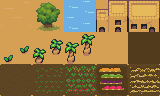
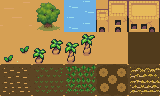
ux improvement

diff --git a/js/GameScene.js b/js/GameScene.js
@@ -2,7 +2,7 @@ class GameScene extends Phaser.Scene {
   constructor() { super({ key: 'GameScene' }); }
 
   preload() {
-    this.load.spritesheet('tiles', 'art/tiles.png?v3', { frameWidth: 32, frameHeight: 32 });
+    this.load.spritesheet('tiles', 'art/tiles.png?v4', { frameWidth: 32, frameHeight: 32 });
   }
 
   create() {
@@ -25,6 +25,8 @@ class GameScene extends Phaser.Scene {
     this.farmLimitAlertShown     = false;
     this.gardenBlinkTimer        = 0;
     this.gardenBlinkOn           = true;
+    this.waterCrisisTimer        = 0;
+    this.waterCrisisTriggered    = false;
 
     // Rain
     this.rain = { state: 'idle', phaseTimer: 0, duration: 0, nextTimer: 0, drops: [], started: false, lightningTimer: 0, lightningDelay: 0 };
@@ -250,7 +252,7 @@ class GameScene extends Phaser.Scene {
       if (!this.farmLimitAlertShown) {
         this.farmLimitAlertShown = true;
         const ui = this.scene.get('UIScene');
-        if (ui) ui.showAlert('The number of farmland depends on the number of people in your community.');
+        if (ui) ui.showAlert('The number of farmland depends on your community size. Build more shelters to welcome more people.');
       }
       return;
     }
@@ -405,10 +407,10 @@ class GameScene extends Phaser.Scene {
     for (const g of this.gardens) {
       if (g.stage === 3 || g.stage === 4) continue; // withered or harvested, waiting for player action
 
-      // Apply blink alpha to stage-2 tiles
+      // Apply blink alpha to stage-2 tiles only in the last 5s before withering
       if (g.stage === 2) {
         const tile = this.biomeLayer.getTileAt(g.x, g.y);
-        if (tile) tile.alpha = this.gardenBlinkOn ? 1 : 0.35;
+        if (tile) tile.alpha = g.timer >= 5 && this.gardenBlinkOn ? 0.35 : 1;
       }
 
       g.timer += dt;
@@ -422,7 +424,7 @@ class GameScene extends Phaser.Scene {
             this.gardenReadyAlertShown = true;
             const ui = this.scene.get('UIScene');
             GameState.current_action = GameState.ACTION_FARM;
-            if (ui) ui.showAlert('Your first garden is ready!\nClick on it to harvest it.');
+            if (ui) ui.showAlert('Your first garden is ready!\nClick quickly to harvest before the produce goes off.');
           }
         }
       } else if (g.stage === 2 && g.timer >= 10) {
@@ -454,6 +456,7 @@ class GameScene extends Phaser.Scene {
       const ui = this.scene.get('UIScene');
       if (ui) ui.showAlert(
         'Now, you can expand your community by building other shelters.\n' +
+        'You can replant in the same place where you harvested.\n' +
         'Pay attention to the damage you cause on the land health and on the water level.'
       );
     }
@@ -636,6 +639,15 @@ class GameScene extends Phaser.Scene {
           }
         }
       }
+    }
+
+    // Water crisis: game over only after 10s with no water tiles
+    if (this.waterCells.length === 0) {
+      this.waterCrisisTimer += dt;
+      if (this.waterCrisisTimer >= 10) this.waterCrisisTriggered = true;
+    } else {
+      this.waterCrisisTimer = 0;
+      this.waterCrisisTriggered = false;
     }
 
     this._updateRain(dt);

diff --git a/js/TitleScene.js b/js/TitleScene.js
@@ -3,7 +3,7 @@ class TitleScene extends Phaser.Scene {
 
   create() {
     const W = GAME_WIDTH, H = GAME_HEIGHT;
-    const cx = W / 2, cy = H / 2;
+    const cx = W / 2, cy = H / 2 - 100;
 
     // Background
     const bg = this.add.graphics();
@@ -23,12 +23,16 @@ class TitleScene extends Phaser.Scene {
 
     // Tagline
     this.add.text(cx, cy + 10, 'Rise your community, regenerate resources', {
-      fontSize: '20px', fontFamily: 'monospace', fill: '#557755',
+      fontSize: '22px', fontFamily: 'monospace', fill: '#557755',
+    }).setOrigin(0.5);
+
+    this.add.text(cx, cy + 120, 'Through human actions, particularly those of the most greedy, the planet has been turned into a vast desert. Years later, communities are trying to establish themselves by managing resources more effectively and respecting planetary boundaries. ', {
+      fontSize: '20px', fontFamily: 'monospace', fill: '#ffffff', wordWrap: { width: 550 },
     }).setOrigin(0.5);
 
     // Play button
-    const btnW = 180, btnH = 52;
-    const btnX = cx - btnW / 2, btnY = cy + 70;
+    const btnW = 320, btnH = 52;
+    const btnX = cx - btnW / 2, btnY = cy + 220;
 
     const btnBg = this.add.graphics();
     btnBg.fillStyle(0x2d6e2d, 1);
@@ -36,7 +40,7 @@ class TitleScene extends Phaser.Scene {
     btnBg.lineStyle(2, 0x55cc55, 1);
     btnBg.strokeRoundedRect(btnX, btnY, btnW, btnH, 6);
 
-    this.add.text(cx, btnY + btnH / 2, 'PLAY', {
+    this.add.text(cx, btnY + btnH / 2, 'CREATE MY COMMUNITY', {
       fontSize: '22px', fontStyle: 'bold', fontFamily: 'monospace', fill: '#ffffff',
     }).setOrigin(0.5);
 
@@ -59,6 +63,7 @@ class TitleScene extends Phaser.Scene {
       btnBg.strokeRoundedRect(btnX, btnY, btnW, btnH, 6);
     });
     zone.on('pointerdown', () => {
+      this.scale.startFullscreen();
       this.scene.start('GameScene');
     });
   }

diff --git a/js/UIScene.js b/js/UIScene.js
@@ -135,8 +135,8 @@ class UIScene extends Phaser.Scene {
   // ── Alert popup ─────────────────────────────────────────────────────────────
 
   _buildAlertPopup() {
-    const W = 480,
-      H = 210;
+    const W = 560,
+      H = 260;
     const px = (GAME_WIDTH - W) / 2;
     const py = (GAME_HEIGHT - H) / 2;
 
@@ -272,8 +272,7 @@ class UIScene extends Phaser.Scene {
 
     // Game Over
     const gameScene = this.scene.get("GameScene");
-    const noWaterTiles =
-      gameScene && gameScene.waterCells && gameScene.waterCells.length === 0;
+    const noWaterTiles = gameScene && gameScene.waterCrisisTriggered;
     if (GameState.land_health === 0 || noWaterTiles) {
       this.gameOver = true;
       this.overlayOpen = true;

diff --git a/js/main.js b/js/main.js
@@ -6,6 +6,7 @@ const GAME_HEIGHT = UI_HEIGHT + 32 * 32; // 70 + 1024 = 1094
 const config = {
   type: Phaser.AUTO,
   backgroundColor: '#111111',
+  pixelArt: true,
   scale: {
     mode: Phaser.Scale.FIT,
     autoCenter: Phaser.Scale.CENTER_BOTH,
